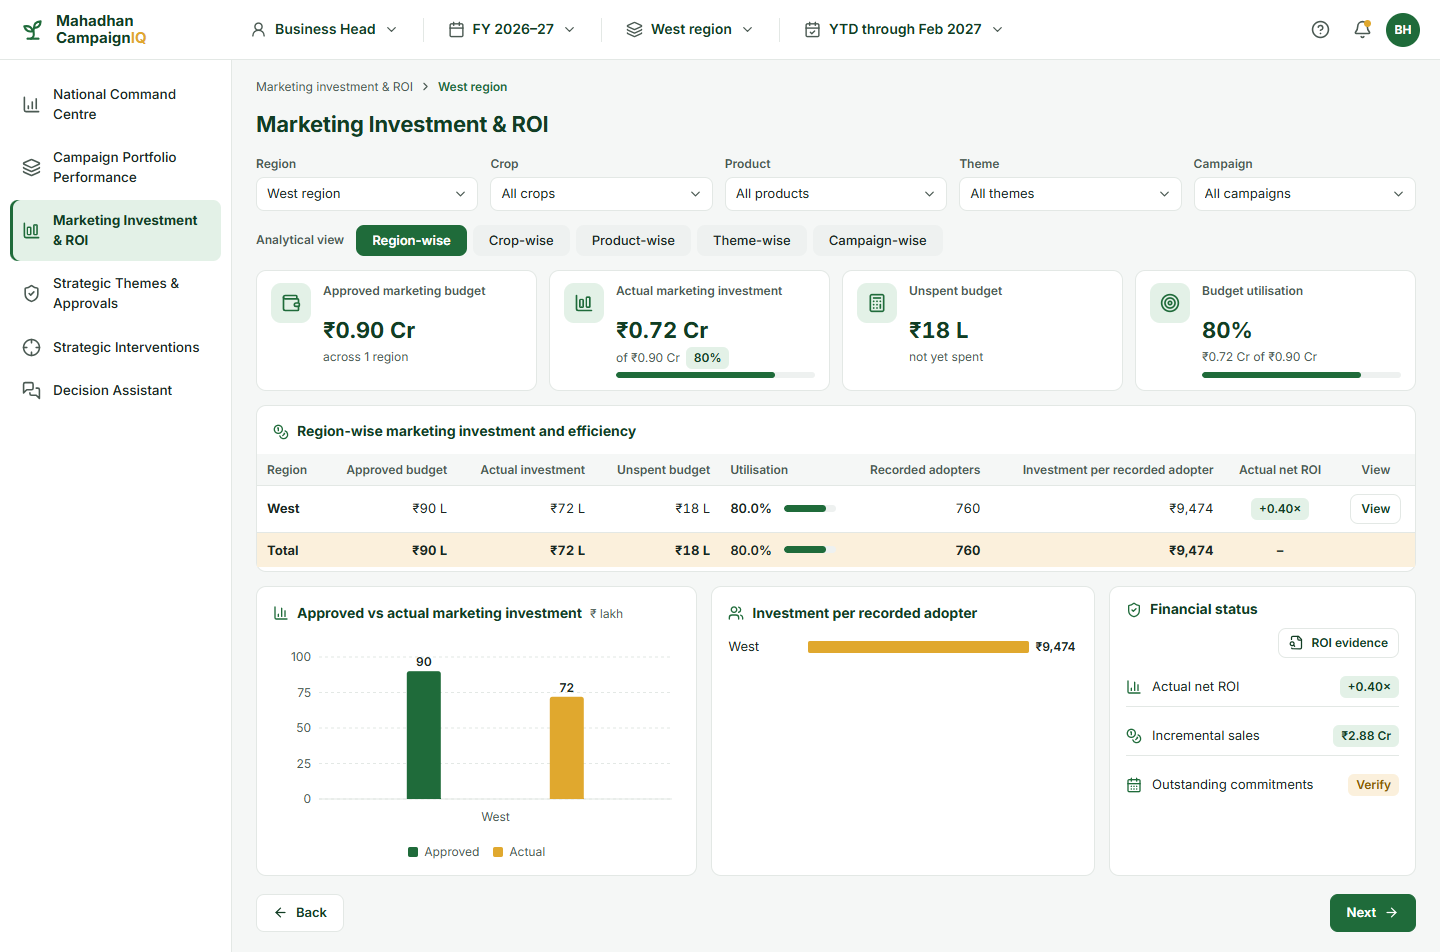
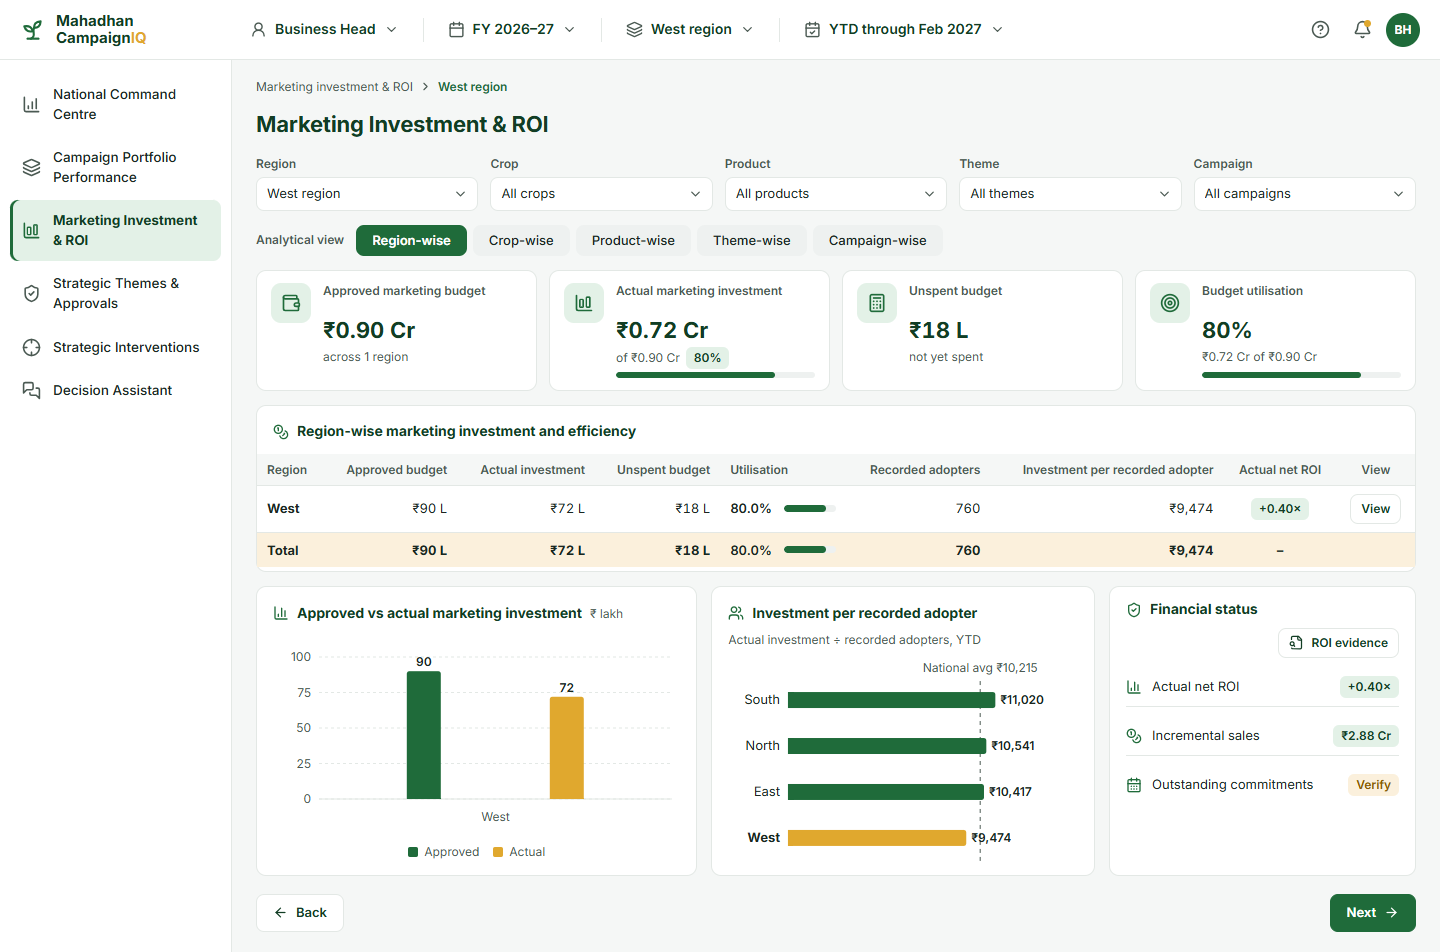
BH: investment per adopter shows all regions

Changed region(s): [[0.5, 0.6702, 0.75, 0.792], [0.5312, 0.8225, 0.7188, 0.9139]]

diff --git a/campaigniq-v3/src/screens/Investment.tsx b/campaigniq-v3/src/screens/Investment.tsx
@@ -4,15 +4,16 @@
  */
 import { ArrowLeftRight, Calculator, CalendarClock, CalendarDays, ChartColumn, ChartColumnBig, Coins, FileSearch, Percent, RotateCcw, Save, Scale, ShieldCheck, ShoppingCart, Target, TrendingUp, Users, Wallet } from 'lucide-react';
 import { useState, type ReactNode } from 'react';
+import { Bar as RBar, BarChart, Cell, LabelList, ReferenceLine, ResponsiveContainer, Tooltip, XAxis, YAxis } from 'recharts';
 import { useSearchParams } from 'react-router-dom';
 import {
   businessCase, CAMPAIGNS, nationalReturns, netRoi, regionRoi, campaignById, campaignMetrics, campaignsOf, campaignTotals, CROP_MIX, DEFAULT_REALLOCATION, NATIONAL, NATIONAL_METRICS,
-  PRODUCT_MIX, REGIONS, regionById, regionMetrics, THEMES, type Campaign, type CampaignId, type MixRow,
+  PRODUCT_MIX, REGIONS, regionById, regionMetrics, THEMES, type Campaign, type CampaignId, type MixRow, type RegionId,
 } from '../data/bh';
 import { crore, lakh, num, pct, rupees, sum, times } from '../data/format';
 import { R } from '../routes';
 import { useBhStore } from '../store/bhStore';
-import { SERIES } from '../theme';
+import { C, SERIES } from '../theme';
 import { GroupedBars, HBars, Legend, Waterfall } from '../ui/charts';
 import { Bar, Breadcrumb, Button, Card, FilterBar, FooterBar, KpiCard, PageHeader, SegmentedControl, Select, StatusChip } from '../ui/core';
 import { DataTable } from '../ui/DataTable';
@@ -23,6 +24,40 @@ const perAdopter = (actualL: number, adopters: number) => Math.round((actualL * 
 
 function StatusList({ items }: { items: { icon: typeof Coins; label: string; value: ReactNode }[] }) {
   return <>{items.map((i) => <div key={i.label} className="list-row"><i.icon size={16} />{i.label}<span className="right">{i.value}</span></div>)}</>;
+}
+
+// ================================================================ shared card: investment per recorded adopter
+/** All four regions, highest first; the scope region in amber with a bold label; dashed national average line. */
+function PerAdopterCard({ scope }: { scope: RegionId | null }) {
+  const rows = [...REGIONS].sort((a, b) => regionMetrics(b).perAdopter - regionMetrics(a).perAdopter)
+    .map((r) => ({ id: r.id, name: r.name, value: regionMetrics(r).perAdopter, actual: r.actual, adopters: r.adopters }));
+  const avg = NATIONAL_METRICS.perAdopter;
+  const max = Math.ceil((rows[0].value * 1.08) / 1000) * 1000;
+  const Tick = ({ x, y, payload }: { x?: number; y?: number; payload?: { value: string } }) => (
+    <text x={x} y={y} dy={4} textAnchor="end" fontSize={13} fill={C.ink} fontWeight={rows.find((r) => r.name === payload?.value)?.id === scope ? 700 : 400}>{payload?.value}</text>
+  );
+  return (
+    <Card title="Investment per recorded adopter" icon={Users}>
+      <div className="muted" style={{ fontSize: 12, marginTop: -6 }}>Actual investment ÷ recorded adopters, YTD</div>
+      <div style={{ flex: 1, minHeight: 180 }}>
+        <ResponsiveContainer width="100%" height="100%">
+          <BarChart data={rows} layout="vertical" margin={{ top: 18, right: 64, left: 4, bottom: 0 }} barCategoryGap="28%">
+            <XAxis type="number" hide domain={[0, max]} />
+            <YAxis type="category" dataKey="name" width={56} tick={<Tick />} axisLine={false} tickLine={false} />
+            <Tooltip cursor={{ fill: C.canvas }} content={({ active, payload }) => {
+              const p = active && payload?.[0]?.payload as (typeof rows)[number] | undefined;
+              return p ? <div className="toast" style={{ background: C.card, color: C.ink, border: `1px solid ${C.line}` }}>Investment {lakh(p.actual)} · Adopters {num(p.adopters)} · {rupees(p.value)} per adopter</div> : null;
+            }} />
+            <ReferenceLine x={avg} stroke={C.inkSoft} strokeDasharray="4 4" label={{ value: `National avg ${rupees(avg)}`, position: 'top', fontSize: 12, fill: C.inkSoft }} />
+            <RBar dataKey="value" barSize={16} radius={[0, 3, 3, 0]} isAnimationActive={false}>
+              {rows.map((r) => <Cell key={r.id} fill={r.id === scope ? C.amber : C.brand} />)}
+              <LabelList dataKey="value" position="right" formatter={(v: number) => rupees(v)} style={{ fontSize: 12, fontWeight: 600, fill: C.ink }} />
+            </RBar>
+          </BarChart>
+        </ResponsiveContainer>
+      </div>
+    </Card>
+  );
 }
 
 // ================================================================ 7 Marketing Investment & ROI
@@ -40,7 +75,6 @@ export function InvestmentRoi() {
   const [evidence, setEvidence] = useState<Evidence | null>(null);
   const regions = REGIONS.filter((r) => region === ALL || r.id === region);
   const k = { approved: sum(regions, (r) => r.approved), actual: sum(regions, (r) => r.actual) };
-  const highest = [...regions].sort((a, b) => regionMetrics(b).perAdopter - regionMetrics(a).perAdopter)[0];
 
   const mix: MixRow[] = view === 'crop' ? CROP_MIX.filter((m) => crop === ALL || m.name === crop)
     : view === 'product' ? PRODUCT_MIX.filter((m) => product === ALL || m.name === product)
@@ -105,12 +139,7 @@ export function InvestmentRoi() {
           <GroupedBars data={regions.map((r) => ({ region: r.name, approved: r.approved, actual: r.actual }))} x="region"
             series={[{ key: 'approved', label: 'Approved', color: SERIES.planned }, { key: 'actual', label: 'Actual', color: SERIES.observed }]} />
         </Card>
-        <Card title="Investment per recorded adopter" icon={Users}>
-          <HBars labelWidth={70}
-            rows={[...regions].sort((a, b) => regionMetrics(a).perAdopter - regionMetrics(b).perAdopter).map((r) => ({ label: r.name, values: [regionMetrics(r).perAdopter], highlight: r.id === highest.id ? 0 : undefined }))}
-            series={[{ key: 'pa', label: 'Investment per adopter', color: SERIES.planned }]}
-            max={Math.max(...regions.map((r) => regionMetrics(r).perAdopter))} format={rupees} />
-        </Card>
+        <PerAdopterCard scope={region === ALL ? null : (region as RegionId)} />
         <Card title="Financial status" note={region === ALL ? 'National' : undefined} icon={ShieldCheck} right={
 <Button small icon={FileSearch} onClick={() => setEvidence({
           title: 'ROI evidence — national portfolio', owner: 'Zonal Manager attribution records',
@@ -147,7 +176,6 @@ export function CampaignInvestment() {
   const camps = campaignsOf(region);
   const t = camps.length ? campaignTotals(region) : null;
   const maxApproved = Math.max(1, ...camps.map((c) => c.approved));
-  const top = [...camps].sort((a, b) => campaignMetrics(b).perAdopter - campaignMetrics(a).perAdopter)[0];
 
   return (
     <div className="page">
@@ -191,10 +219,7 @@ export function CampaignInvestment() {
               ))}
             </div>
           </Card>
-          <Card title="Investment per recorded adopter" icon={Users}>
-            <HBars rows={camps.map((c) => ({ label: c.short, values: [campaignMetrics(c).perAdopter], highlight: c.id === top.id ? 0 : undefined }))}
-              series={[{ key: 'pa', label: 'Investment per adopter', color: SERIES.planned }]} max={campaignMetrics(top).perAdopter} format={rupees} labelWidth={150} />
-          </Card>
+          <PerAdopterCard scope={region} />
           <Card title="Reallocation readiness" icon={ArrowLeftRight}>
             <StatusList items={[
               { icon: Coins, label: 'Unspent budget', value: <StatusChip tone="ok">{lakh(regionMetrics(r).unspent)}</StatusChip> },
